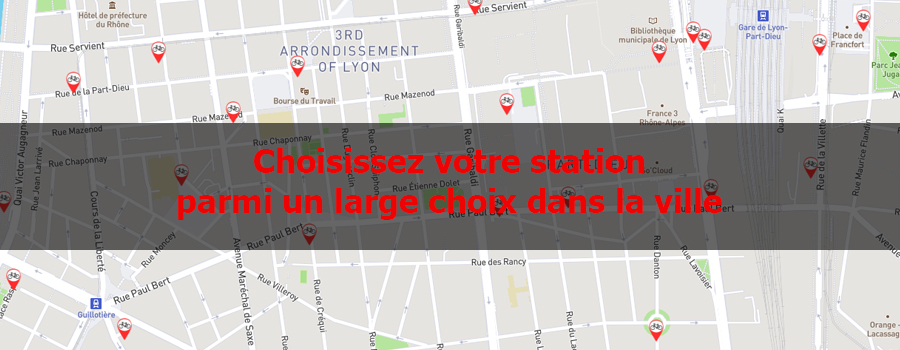
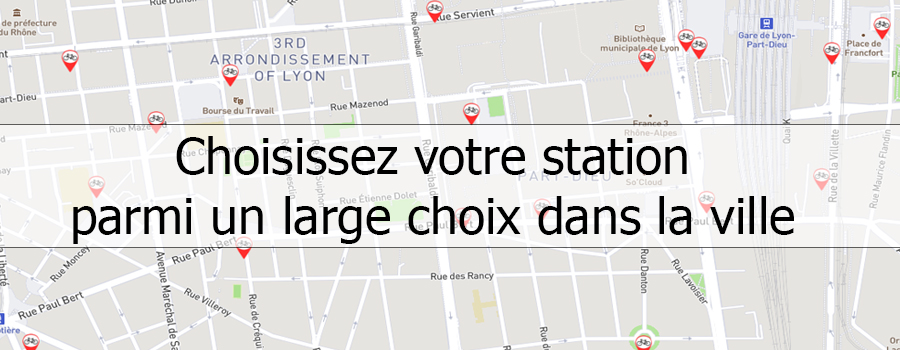
modification images slider et modification html et css

diff --git a/css/style.css b/css/style.css
@@ -13,15 +13,21 @@
 
 header {
 	background-color: white;
-	color: white;
 	padding: 5px 50px;
 	margin-bottom: 10px;
 	border: 5px solid black;
 }
 
+header > h1, p {
+	font-family: 'Tahoma';
+	text-align: center;
+}
+
 #slider {
 	display: flex;
+	flex-direction: row;
 	justify-content: center;
+	align-items: center;
 }
 
 #sliderImage {
@@ -49,26 +55,15 @@ footer {
 .container {
 	display: flex;
 	flex-direction: row;
-	justify-content: space-between;
-}
-
-#sliderImage {
-	position: relative;
+	justify-content: center;
 }
 
 #previous, #next {
-	position: absolute;
-  	cursor: pointer;
-}
-
-#previous {
-	top: 15%;
-	left: 22%;
+	cursor: pointer;
 }
 
 #next {
-	top: 15%;
-	right: 22%;
+	margin-left: 1px;
 }
 
 .bookBtn, #clearCanvasBtn, #submitCanvasBtn, #cancelCanvasBtn {

diff --git a/index.html b/index.html
@@ -12,11 +12,13 @@
 
 <body onload="init();">
   <header>
+    <h1>Vélo'V</h1>
     <div id="slider">
       <a id="previous"><img src="img/keyboard_key_left.png"></a>
       <img id="sliderImage" src="img/slider01.jpg">
       <a id="next"><img src="img/keyboard_key_right.png"></a>
     </div>
+    <p>Appuyez sur la touche <strong>"P"</strong> pour mettre le diaporama en pause et/ou les <strong>flèches gauche et droite</strong> de votre clavier pour défiler plus rapidement</p>
   </header>
 
   <h1 id="errorMsg">Erreur : La chaîne a déraillée ! Revenez plus tard ou venez pédaler avec nous ;)</h1>
